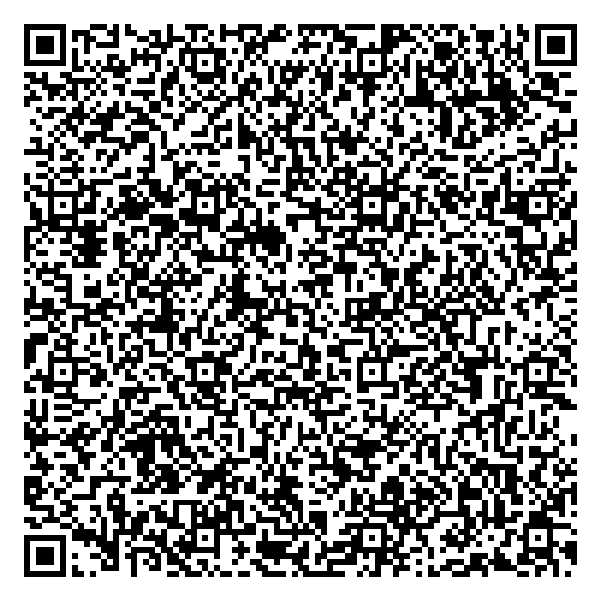
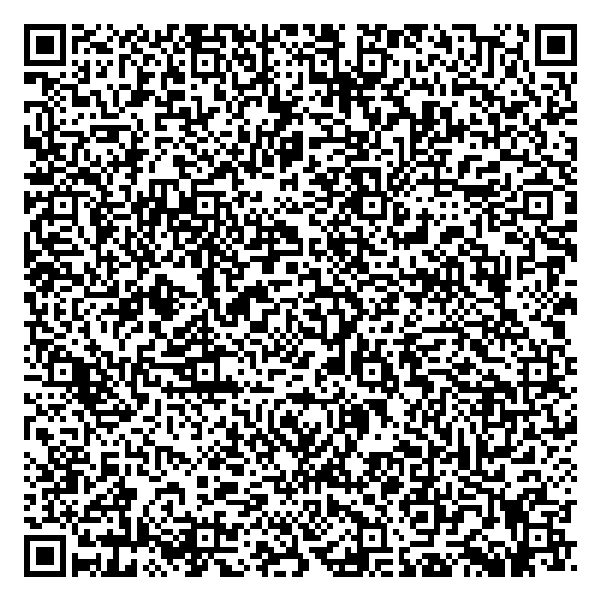
fixup shl encryption alg

diff --git a/make-card/index.js b/make-card/index.js
@@ -9,7 +9,7 @@ const KEYSTORE_PATH = '../keystore/keystore.json';
 const MAX_SHC_LENGTH = 1195;
 
 // we don't care about the security of demo data
-const SHL_KEY = 'rxTgYlOaKJPFtcEd0qcceN8wEU4p94SqAwIWQe6uX7Q';
+const SHL_KEY_B64 = 'rxTgYlOaKJPFtcEd0qcceN8wEU4p94SqAwIWQe6uX7Q';
 
 const SHL_URL_PREFIX =
 	  'https://raw.githubusercontent.com/seanno/shc-demo-data/main/cards/';
@@ -125,7 +125,14 @@ function generateSHL(jws) {
   const cardArr = new TextEncoder().encode(JSON.stringify(cardJson));
 
   // first encrypt the card
-  jose.JWE.createEncrypt({ format: 'compact' }, { kty: 'oct', k: SHL_KEY })
+  const key = {
+	kty: "oct",
+	k: SHL_KEY_B64,
+	alg: "A256GCM",
+	enc: "A256GCM"
+  };
+  
+  jose.JWE.createEncrypt({ format: 'compact' }, key)
 	.update(cardArr)
 	.final()
 	.then((encrypted) => {
@@ -138,7 +145,7 @@ function generateSHL(jws) {
 	  const shlJson = {
 		"url": SHL_URL_PREFIX + cardName + '/jws.txt',
 		"flag": "LU",
-		"key": SHL_KEY,
+		"key": SHL_KEY_B64,
 		"label": 'Demo SHL for ' + cardName
 	  };
 
